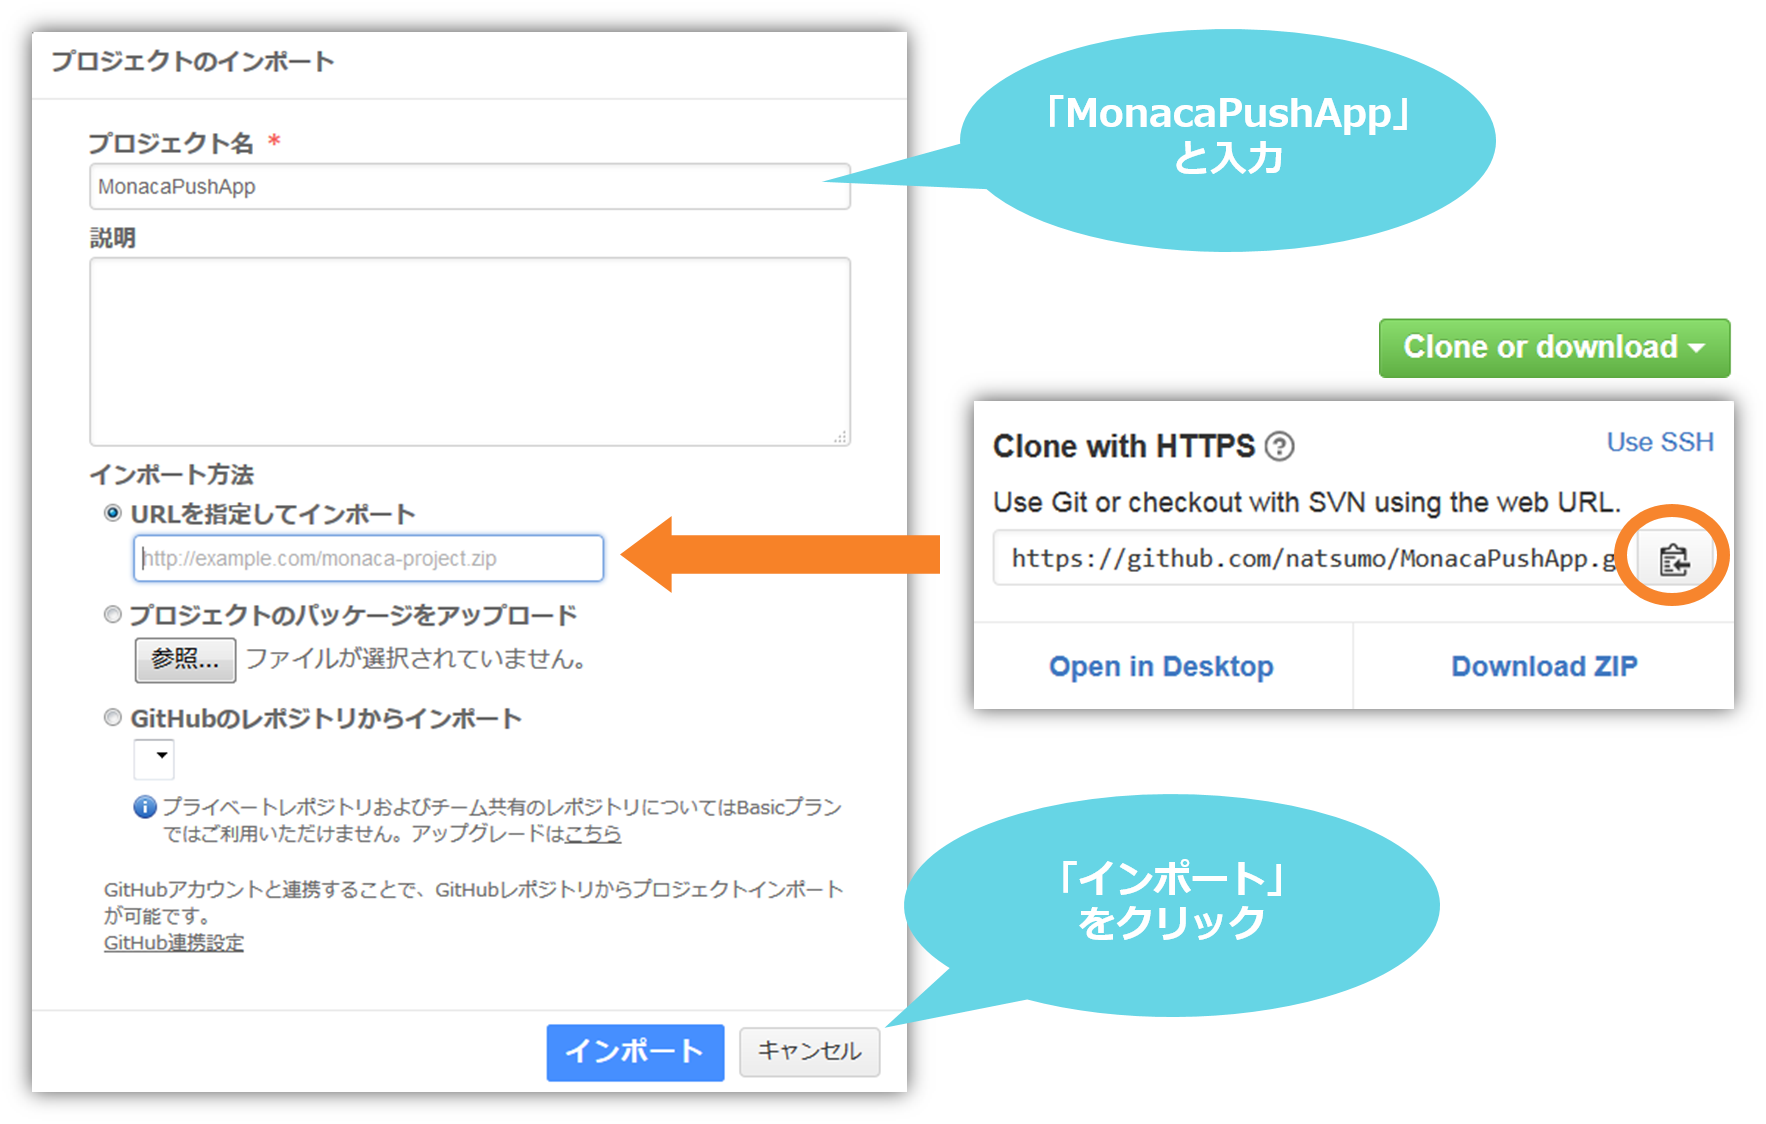
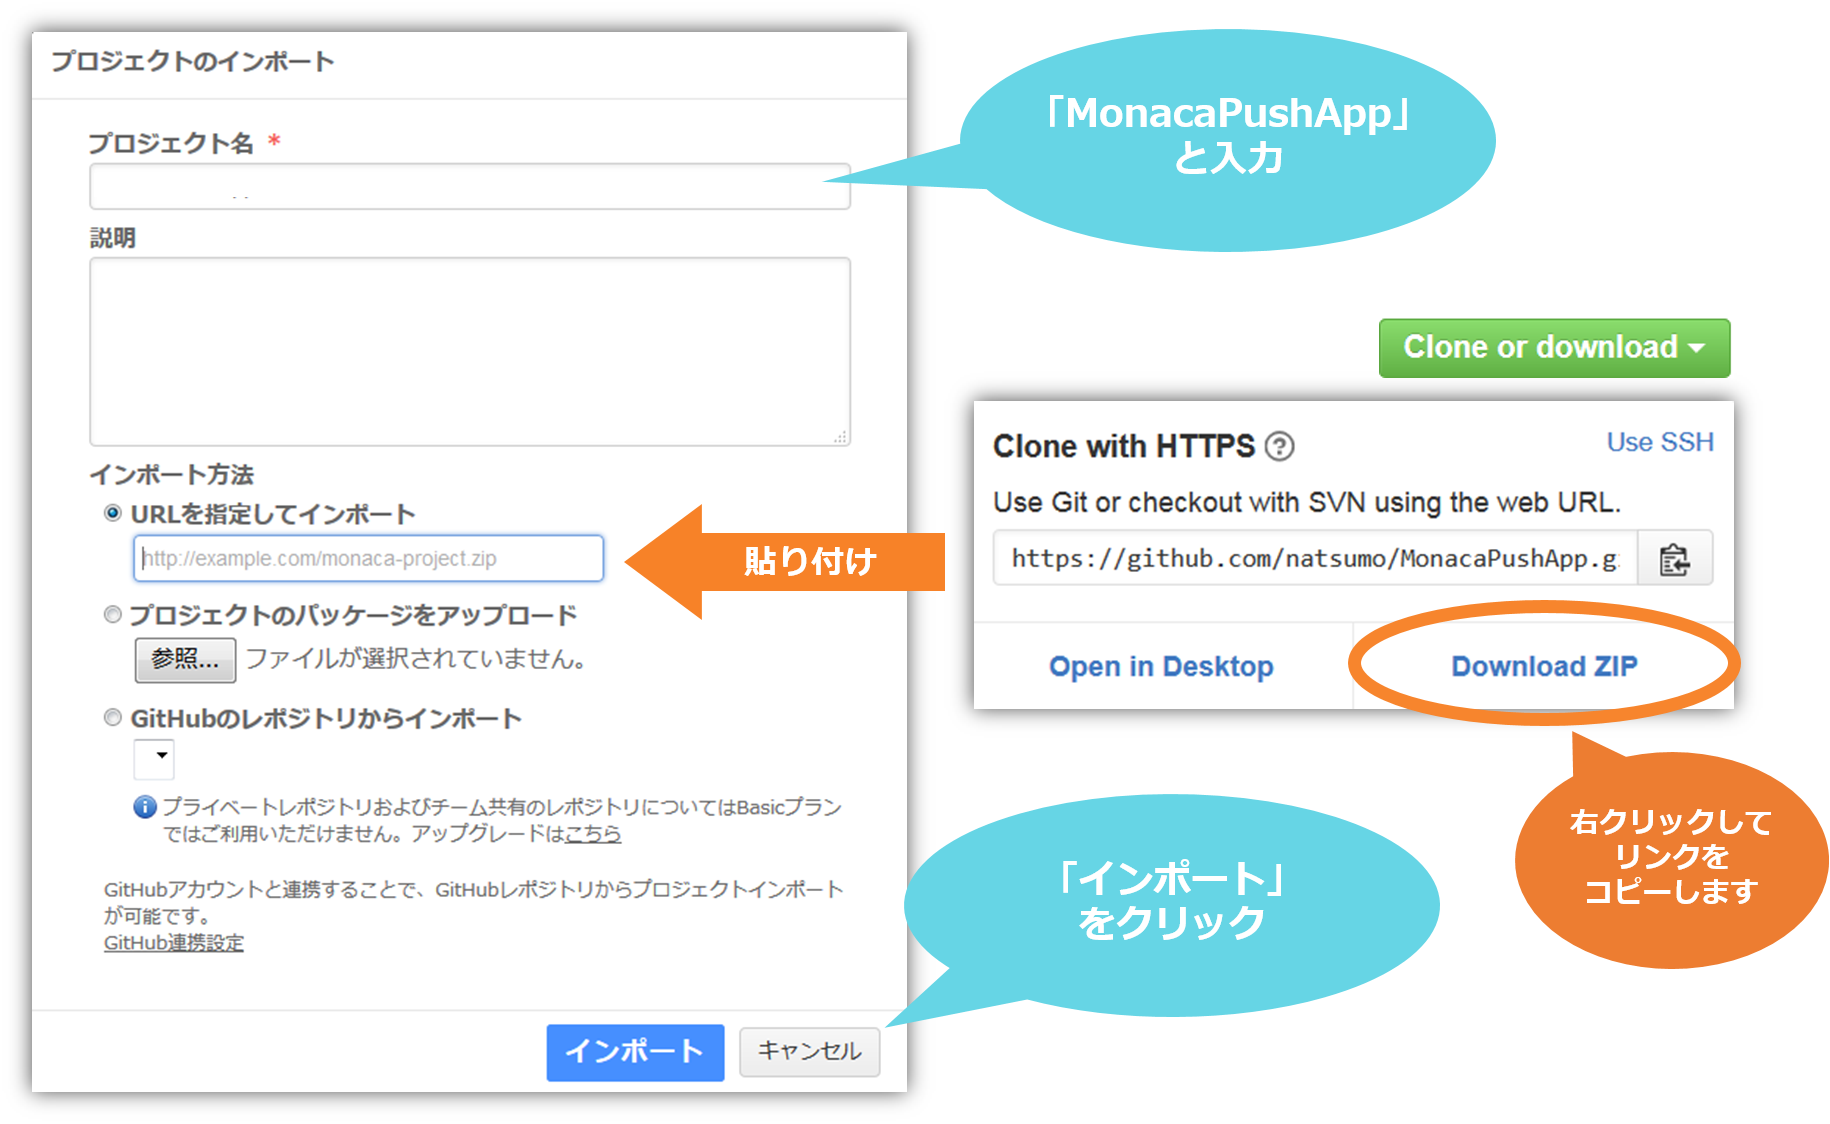
9
20160707

diff --git a/README.md b/README.md
@@ -196,7 +196,7 @@
 
 * プロジェクト名を入力します
 * 説明は空欄でOKです
-* インポート方法は「URLを指定してインポート」を選択し、この画面([GitHub](https://github.com/natsumo/MonacaPushApp.git))の![画像10](/readme-img/010.png)ボタンをクリックして、URLをコピーしたものを貼り付けてください
+* インポート方法は「URLを指定してインポート」を選択し、この画面([GitHub](https://github.com/natsumo/MonacaPushApp.git))の![画像10](/readme-img/010.png)ボタンをクリックして、さらに![画像16](/readme-img/016.png)ボタンを__右クリック__してURLをコピーしたものを貼り付けてください
 
 ![画像9](/readme-img/009.png)
 
